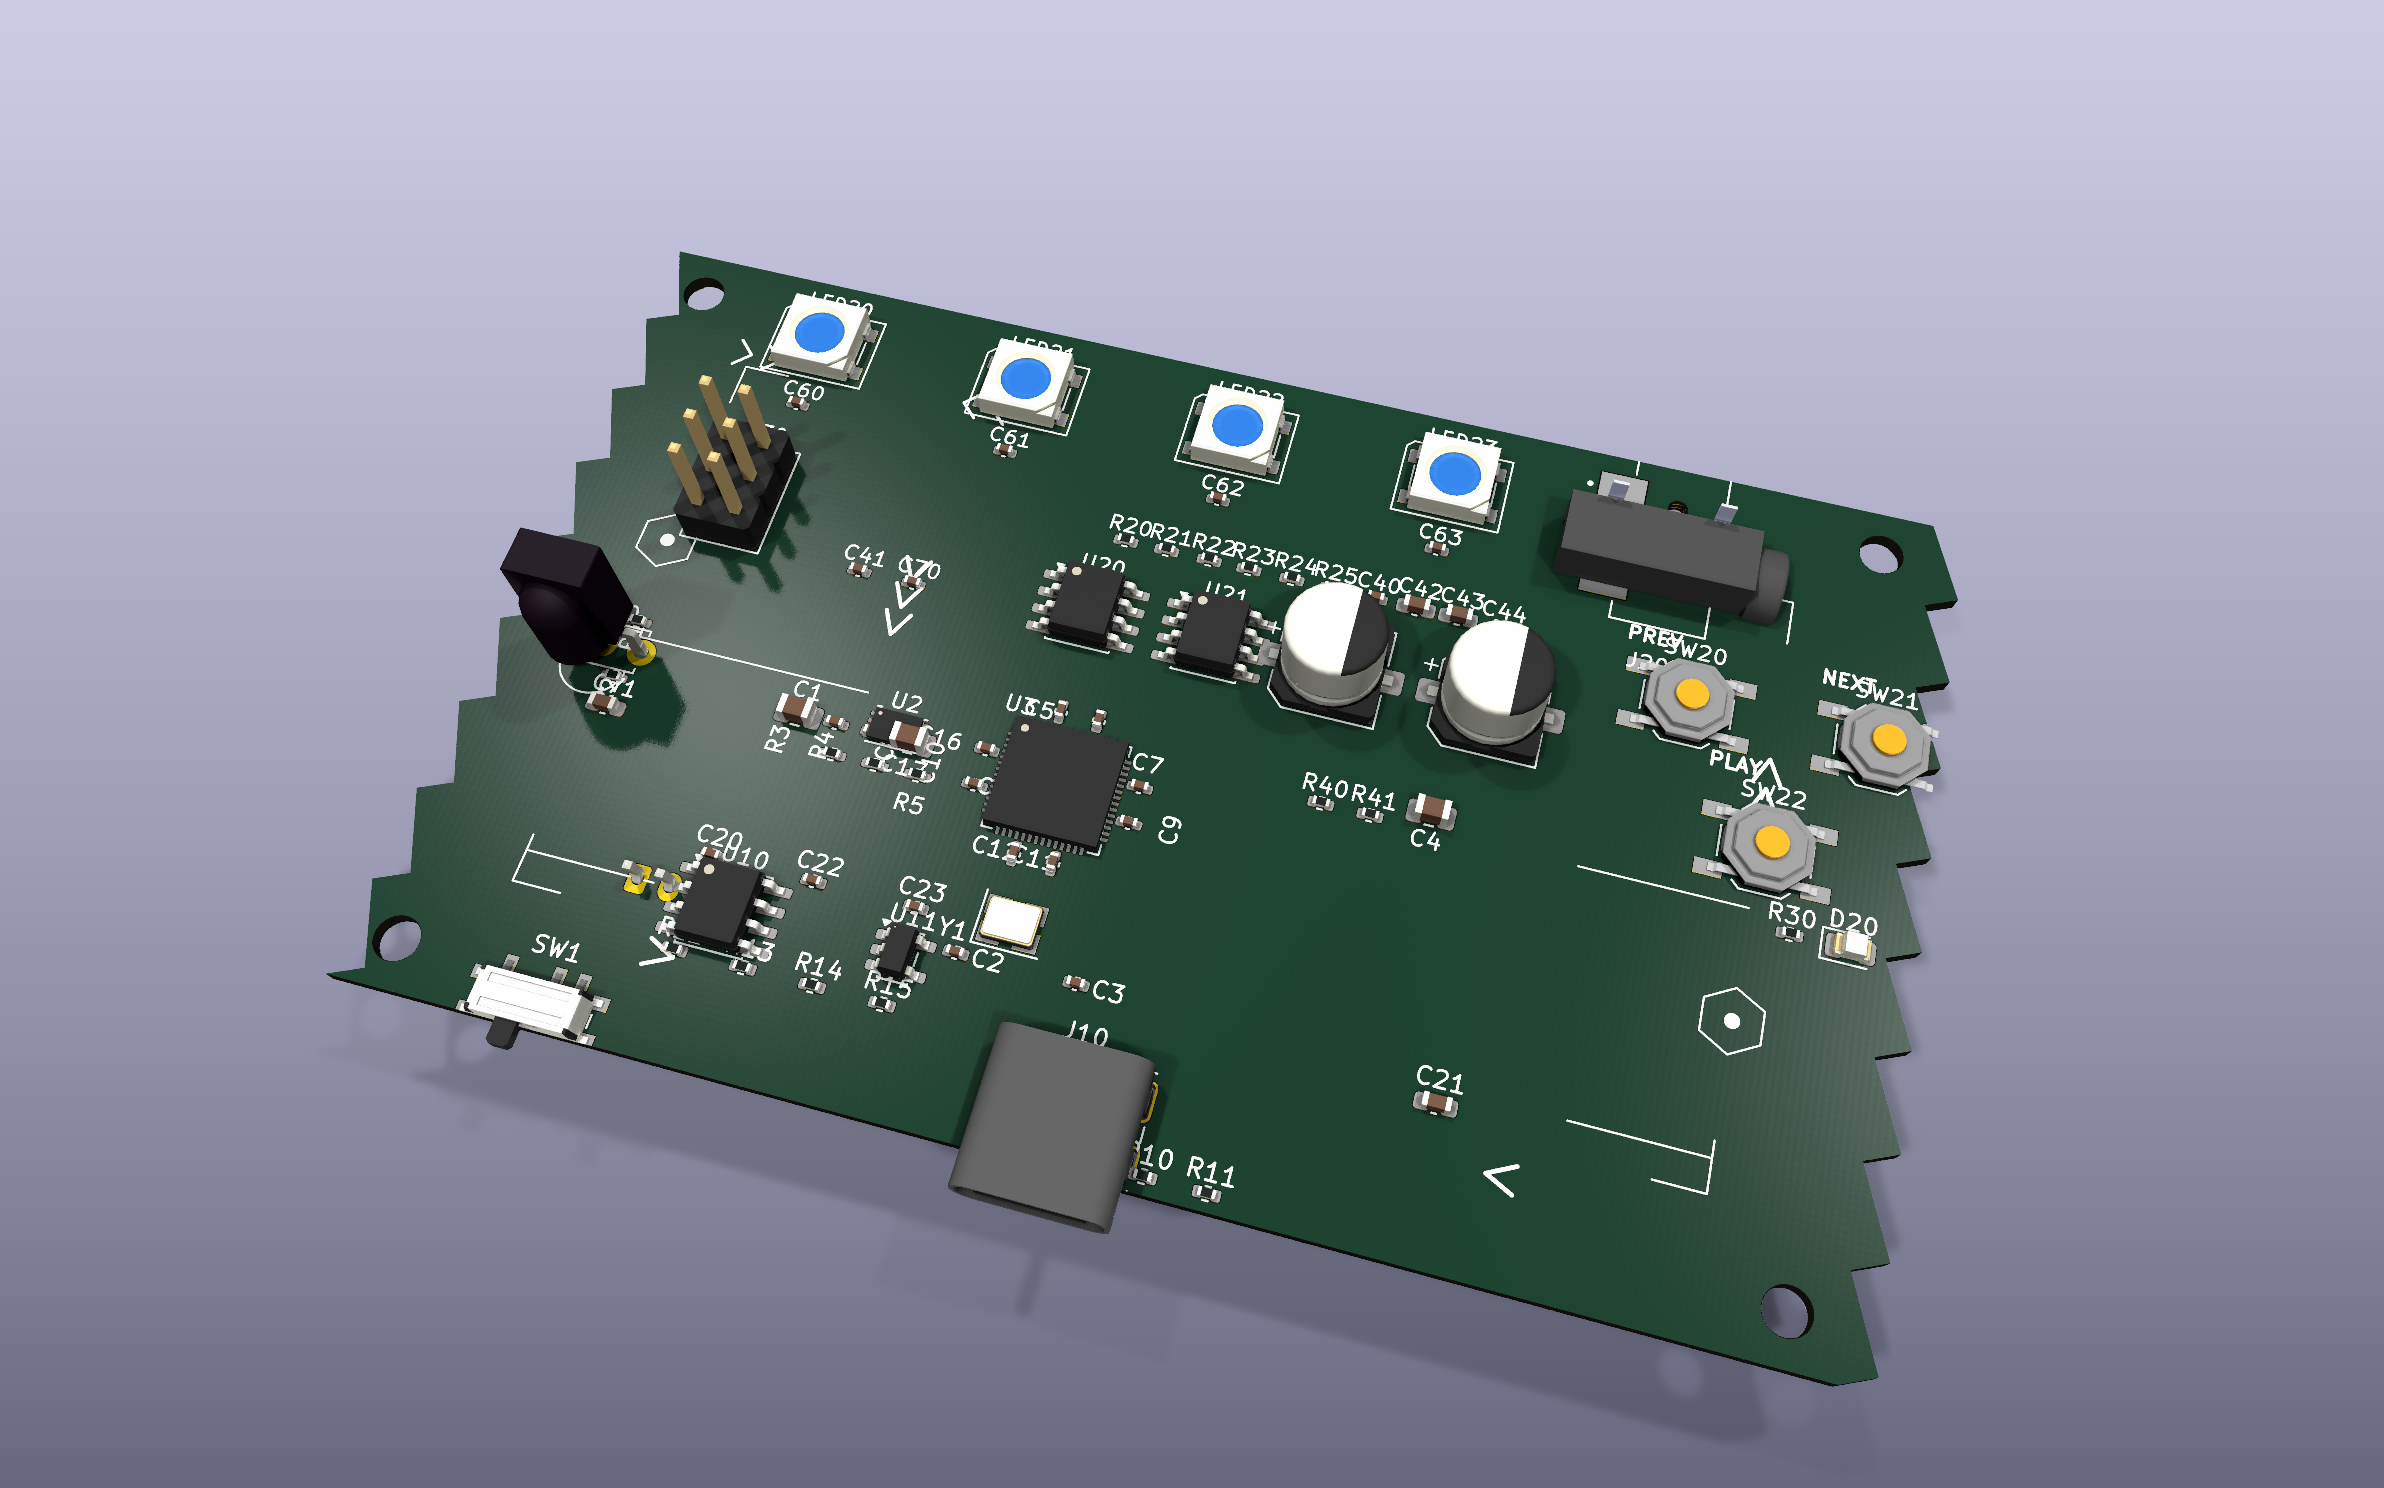
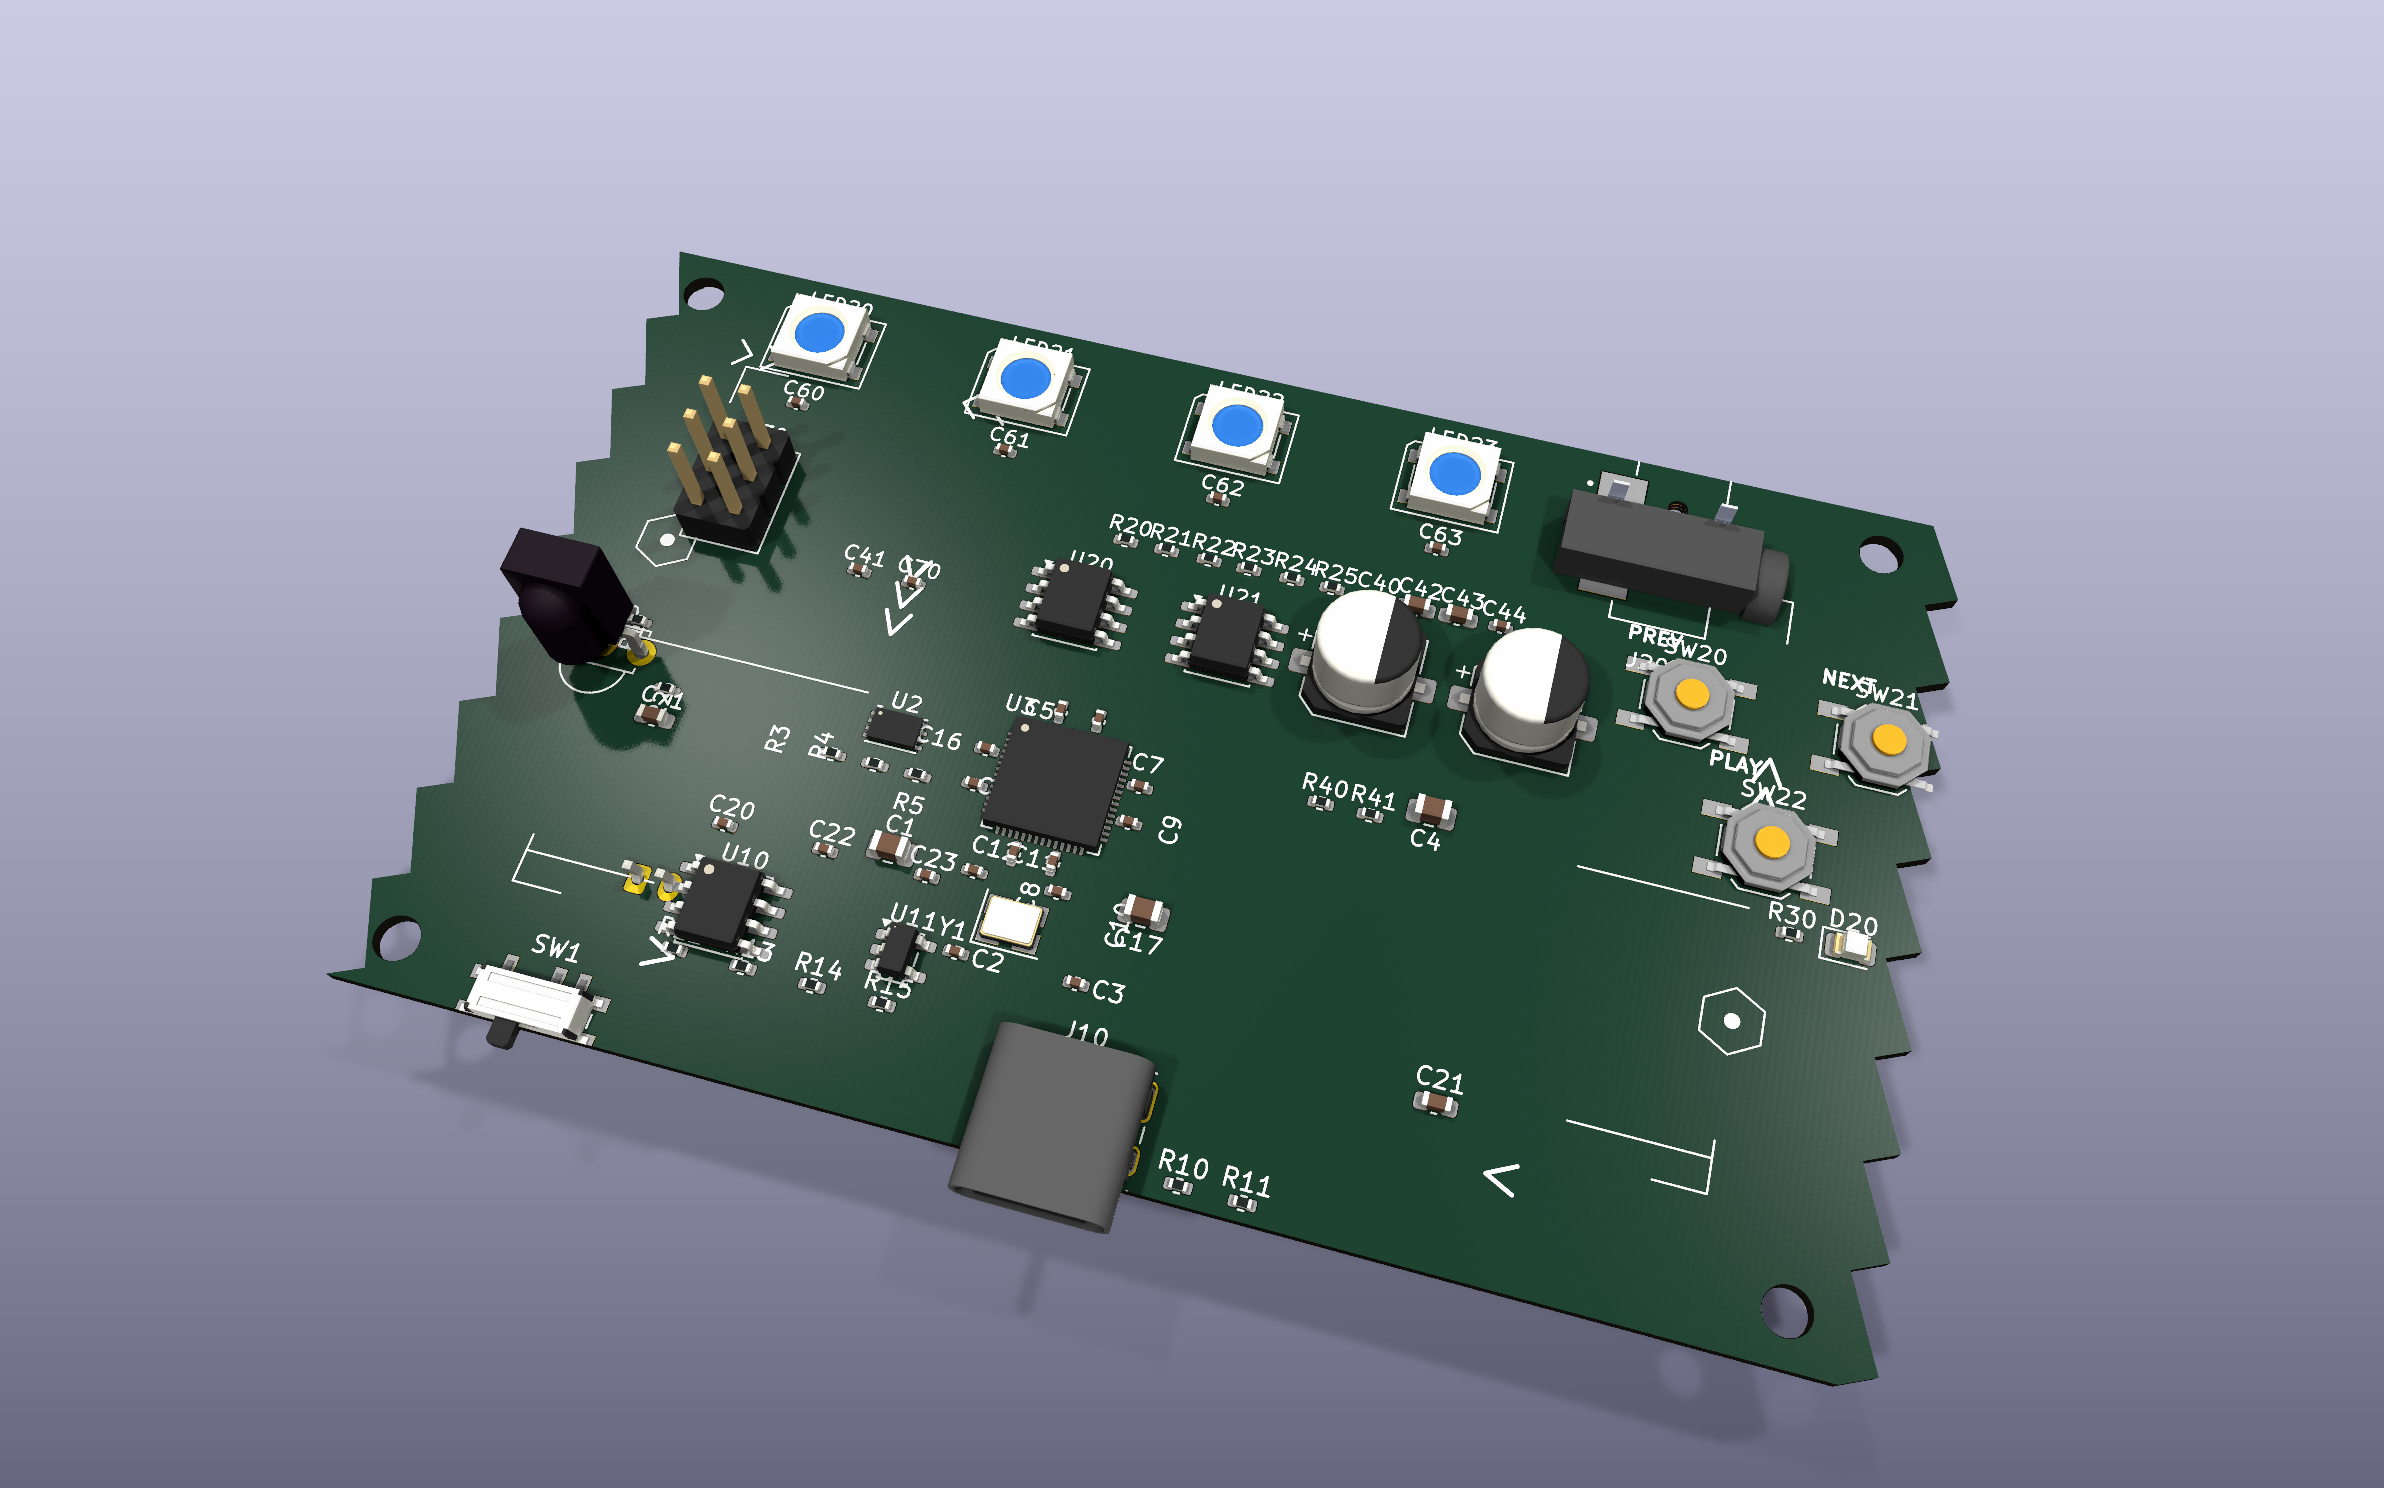
fix(layout): tighten floorplan parameters, 27→14 overlaps
Iterations on bbox sizes after viewing the floorplan output:
- audio_chain bbox [134,99,145,101]: U21 at x=143.5 with cy right=147.25.
- audio_caps_big C45 at (153,100), C46 at (163,100) — 10mm spacing
  leaves 0.4mm cy gap between the 6.6mm electrolytics.
- mcu_bulk_caps moved from y=110 (clashed with U2) to y=118 (below ring).
- power_caps row moved from y=121 to y=119 — above U10/U11.
- usb_cc_pulldowns R10/R11 moved to x=150 clearing J10 cy right.
- ir_rx_support zone added for R2/C71 (TSOP4838 pullup + filter).

Remaining 14 overlaps all ≤0.38mm² — 0.21mm² ring-cap-to-U3 touches
are just the 0.5mm courtyard buffer overlapping at the 0.6mm gap from
arrange_around_ic; acceptable.

The audio chain is now visibly linear in the render:
  U20 (DAC) → U21 (AMP) → C45/C46 (AC coupling) → J20 (jack at corner)

diff --git a/defcon_badge/tools/badge_floorplan.py b/defcon_badge/tools/badge_floorplan.py
@@ -67,20 +67,20 @@ ZONES = {
     },
     # ─── AUDIO CHAIN: U20 → U21 → C45 → C46 → J20 ─────────────
     'audio_chain': {
-        # U20 + U21 SOIC-8 ICs (3.9×4.9mm). Spacing 7mm allows ~3mm gap.
-        'bbox': [135, 99, 144, 101],
+        # U20, U21 SOIC-8 — spacing must be ≥7.4mm for courtyards (cy 7.4mm wide).
+        'bbox': [134, 99, 145, 101],
         'topology': 'chain',
         'direction': 'right',
         'parts': ['U20', 'U21'],
     },
     'audio_caps_big': {
-        # C45/C46 electrolytics (6.6×6.6mm). Need >9mm anchor spacing.
-        # C45 at x=151 — gap of ~5mm to U21 (4mm right edge clears).
-        'bbox': [151, 99, 164, 101],
+        # C45/C46 cy width 9.6mm — anchors at x=153, 163 (10mm spacing,
+        # 0.4mm cy gap). C45 left edge at x=148.2 gives 0.5mm to U21 cy.
+        'bbox': [148, 99, 166, 101],
         'topology': 'fixed',
         'positions': {
-            'C45': [151.0, 100.0],
-            'C46': [161.0, 100.0],
+            'C45': [153.0, 100.0],
+            'C46': [163.0, 100.0],
         },
     },
     'audio_jack_position': {
@@ -132,9 +132,9 @@ ZONES = {
         'parts': ['C2', 'C3'],
     },
     'mcu_bulk_caps': {
-        # C1 (10u), C8 (1u +1V1), C10 (1u +3V3), C17 (10u) — to the LEFT
-        # of the U3 ring (clear of the y=116 ring bottom)
-        'bbox': [120, 110, 128, 113],
+        # C1 (10u), C8 (1u +1V1), C10 (1u +3V3), C17 (10u) — BELOW the
+        # U3 ring (ring bottom y=116, Y1 at y=121 — bulks fit at y=118).
+        'bbox': [128, 118, 145, 119],
         'topology': 'row',
         'parts': ['C1', 'C8', 'C10', 'C17'],
     },
@@ -174,7 +174,8 @@ ZONES = {
         'parts': ['U10', 'U11'],
     },
     'power_caps': {
-        'bbox': [118, 121, 132, 122],
+        # Above U10/U11 with 2mm gap (U10 cy top = 121.8)
+        'bbox': [118, 119, 132, 120],
         'topology': 'row',
         'parts': ['C20', 'C22', 'C23'],
     },
@@ -184,10 +185,19 @@ ZONES = {
         'parts': ['R12', 'R13', 'R14', 'R15'],
     },
     'usb_cc_pulldowns': {
-        # R10, R11 — 5.1k CC pulldowns next to USB-C
-        'bbox': [148, 132, 152, 134],
+        # R10, R11 — 5.1k CC pulldowns. Clear of J10 cy (right=148.25).
+        'bbox': [150, 132, 154, 134],
         'topology': 'row',
         'parts': ['R10', 'R11'],
+    },
+    'ir_rx_support': {
+        # R2, C71 — TSOP4838 pullup + filter cap, right of U30
+        'bbox': [112, 112, 114, 115],
+        'topology': 'fixed',
+        'positions': {
+            'R2': [112.0, 112.0],
+            'C71': [112.0, 114.0],
+        },
     },
     # ─── BACK SIDE: battery + microSD ─────────────────────────
     'back_battery': {